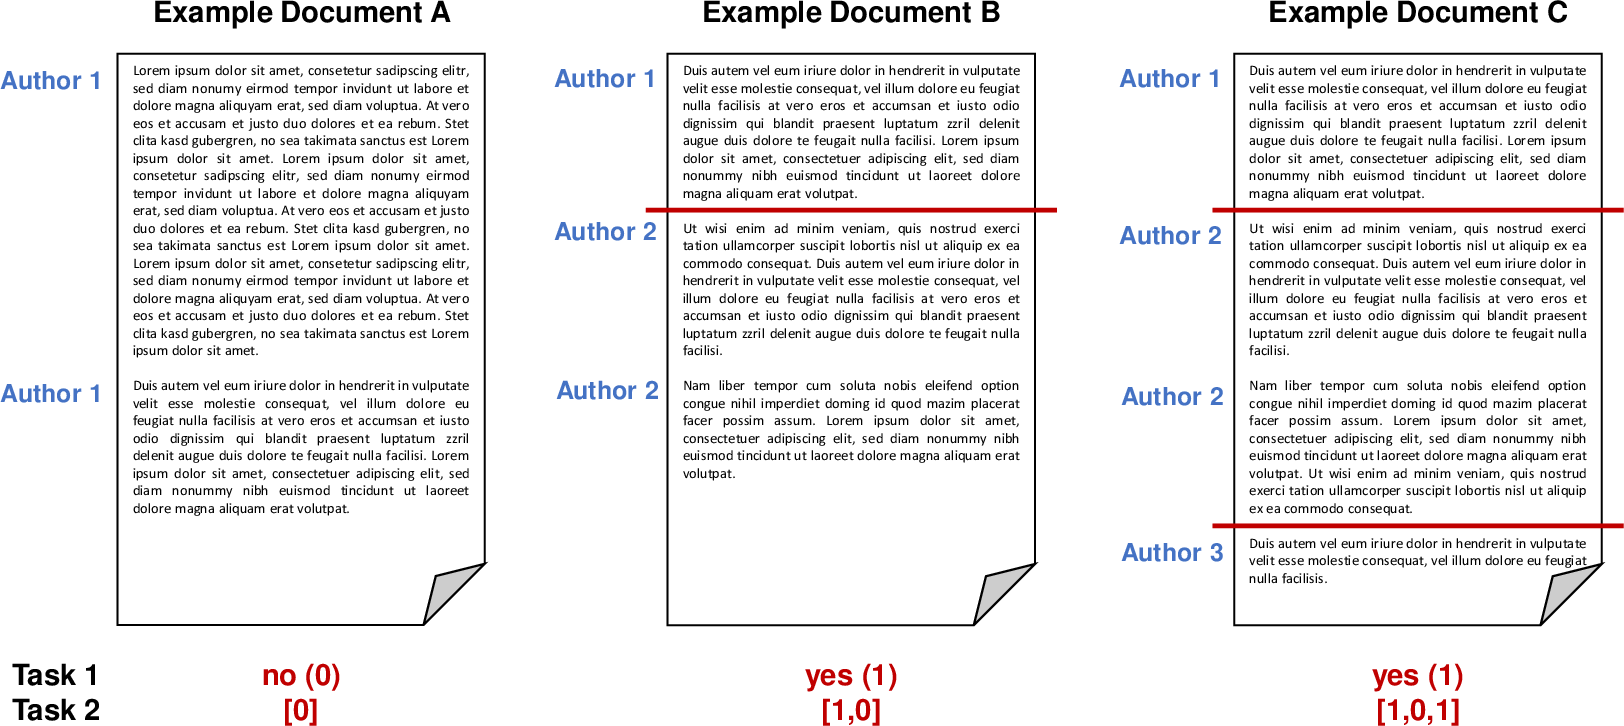
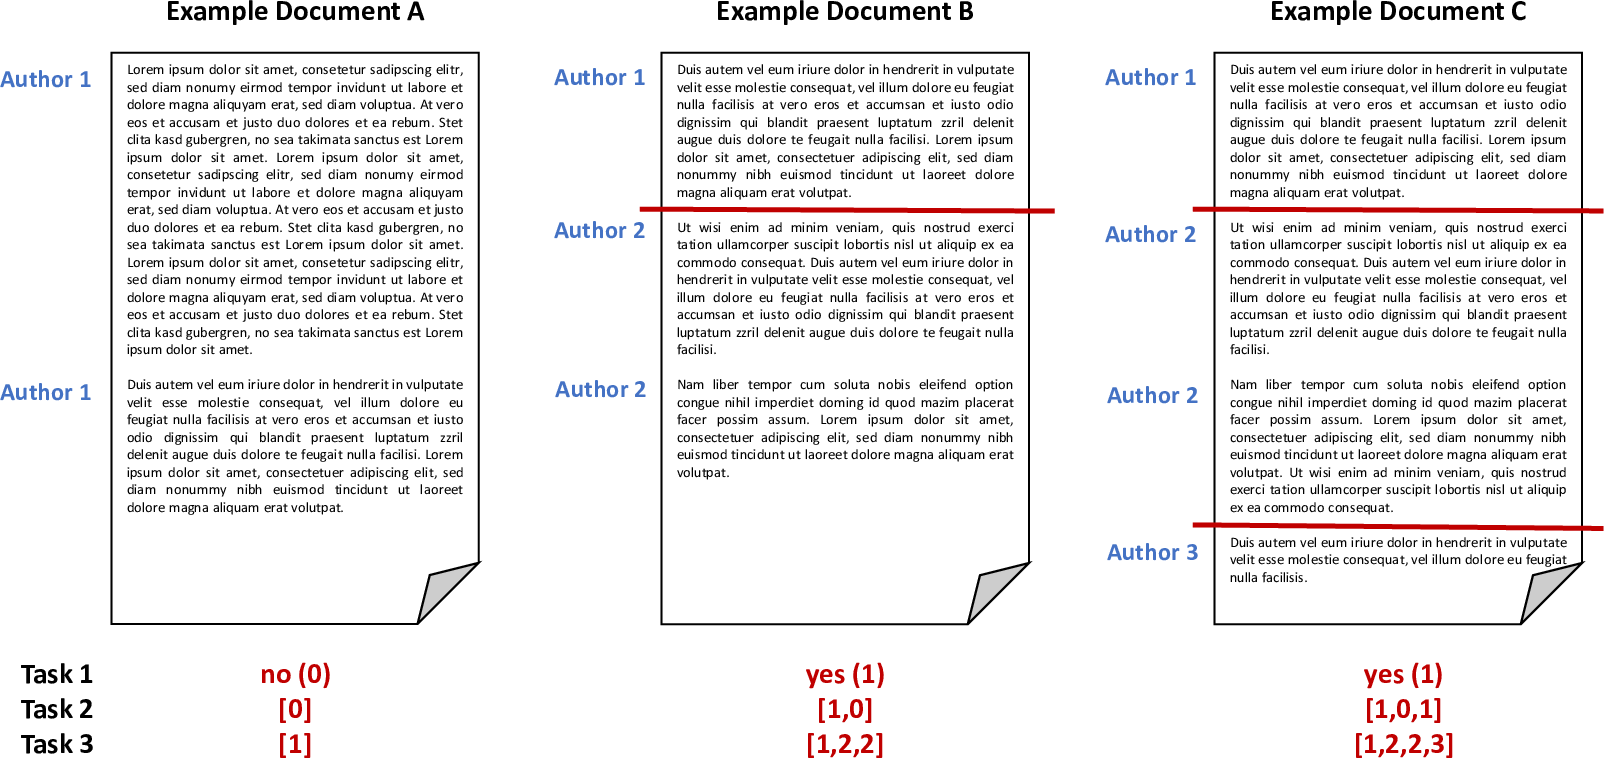
first version of style change task description

diff --git a/clef21/pan21-web/style-change-detection.html b/clef21/pan21-web/style-change-detection.html
@@ -25,8 +25,8 @@ description: PAN @ CLEF 2021 - Style Change Detection
 
             <h2 id="synopsis">Synopsis</h2>
             <ul>
-                <li>Task: Given two consecutive paragraphs, determine if there is a style change.</li>
-                <li>Input: TBD
+                <li>Task: Given a document, determine the number of authors and at which positions the author changes.</li>
+                <li>Input: StackExchange questions and answers, combined into documents </li>
 <!--                    StackExchange questions and answers, combined into documents; 22876 documents; narrow and wide topic relation [<a href="{{ '../../data.html#pan20-style-change-detection' | relative_url }}">data</a>]-->
                 </li>
                 <li>Output: TBD
@@ -42,31 +42,28 @@ description: PAN @ CLEF 2021 - Style Change Detection
             </ul>
 
             <h2 id="task">Task</h2>
-            Details about the task will be announced at a later date.
-<!--
-            <p>The goal of the style change detection task is to identify text positions within a given multi-author document at which the author switches. Detecting these positions is a crucial part of the authorship identification process, and for multi-author document analysis in general. Note that, for this task, we make the assumption that a change in writing style always signifies a change in author. </p>
+            <p> The goal of the style change detection task is to identify text positions within a given multi-author document at which the author switches. Hence, a fundamental question is the following: If multiple authors together have written a text, can we find evidence for this fact, e.g., do we have a means to detect variations in the writing
+            style? Answering this question belongs to the most difficult and most interesting challenges in author identification: Style change detection is the only means to detect plagiarism in a document if no comparison texts are given; likewise, style change detection can help to uncover gift authorships, to verify a claimed authorship, or to develop new technology for writing support.</p>
 
-            <p>Previous editions of the Style Change Detection task aim at e.g., detecting whether a document is single- or multi-authored 
-                (<a href="https://pan.webis.de/clef18/pan18-web/style-change-detection.html">2018</a>) or the actual number of authors within a document 
-                (<a href="https://pan.webis.de/clef19/pan19-web/style-change-detection.html">2019</a>). Considering the promising results achieved by the submitted approaches, we aim to steer the task back to its original goal: detecting the exact position of authorship changes. Therefore, the task for PAN'20 is to detect whether a document was authored by one or multiple authors and to find the positions of style changes at the paragraph-level. For each pair of consecutive paragraphs of a document, we ask participants to estimate whether there is indeed a style change between those two paragraphs. </p>
+            <p>Previous editions of the Style Change Detection task aim at e.g., detecting whether a document is single- or multi-authored (<a href="https://pan.webis.de/clef18/pan18-web/style-change-detection.html">2018</a>), the actual number of authors within a document (<a href="https://pan.webis.de/clef19/pan19-web/style-change-detection.html">2019</a>) or whether there was a style change between two consecutive paragraphs (<a href="https://pan.webis.de/clef20/pan20-web/style-change-detection.html">2020</a>). Considering the promising results achieved by the submitted approaches, we aim to steer the task back to its original goal: detecting the exact position of authorship changes. Therefore, the task for PAN'21 is to first detect whether a document was authored by one or multiple authors, for two-author documents, the task is to find the position of the authorship change and for multi-author documents, the task is to find all positions of authorship changes.</p>
             
-            <p>Given a document, we ask participants to answer the following two questions:</p>
+            <p>Given a document, we ask participants to answer the following three questions:</p>
             <ul>
-                <li>Was the given document written by multiple authors? (task 1)</li>
-                <li>For each pair of consecutive paragraphs in the given document: is there a style change between these paragraphs? (task 2)</li>
+                <li><b>Single vs. Multiple.</b> Given a text, find out whether the text is written by a single author or by multiple authors. (task 1) </li>
+                <li><b>Style Change Basic.</b> Given a text written by two authors and that contains a single style change only, find the position of this change, i.e., cut the text into the two authors' texts. Note that this task corresponds to authorship verification where the two authors are responsible for the beginning and the end of the text respectively. (task 2)</li>
+                <li><b>Style Change Real-World.</b> Given a text written by two or more authors, find all positions of writing style change, i.e., assign all paragraphs of the text uniquely to some author out of the number of authors you assume for the multi-author document. (task 3) </li>
             </ul>
 
-            <p>In other words, the goal is to determine whether the given document contains style changes and if it indeed does, we aim to find the position of the change in the document (between paragraphs).</p>
-            <p>All documents are provided in English and may contain zero up to ten style changes, resulting from at most three different authors. However, style changes may only occur between paragraphs (i.e., a single paragraph is always authored by a single author and does not contain any style changes).</p>
+
 
             <p>The following figure illustrates some possible scenarios and the expected output for the two tasks:</p>
             <br>
             <img src="../pan21-figures/style-change-task.png" alt="Style Change Detection Task Example">
 
             <h2 id="data">Data</h2>
-            <p>To develop and then test your algorithms, two data sets including ground truth information are provided. Those data sets differ in their topical breadth (i.e., the number of different topics that are covered in the documents contained). <i>dataset-narrow</i> contains texts from a relatively narrow set of subjects matters (all related to technology), whereas <i>dataset-wide</i> adds additional subject areas to that (travel, philosophy, economics, history, etc.).</p>
+            <p>To develop and then test your algorithms, a data set including ground truth information is provided, it contains texts from a relatively narrow set of subjects related to technology.</p>
 
-            <p>Both of those data sets are split into three parts:</p>
+            <p>The dataset is split into three parts:</p>
 
             <ol>
                 <li><i>training set:</i> Contains 50% of the whole data set and includes ground truth data. Use this set to develop and train your models.</li>
@@ -76,21 +73,16 @@ description: PAN @ CLEF 2021 - Style Change Detection
 
             <p>You are free to use additional external data for training your models. However, we ask you to make the additional data utilized freely available under a suitable license. </p>
 
-            <h3 id="input_format">Input Format</h3>
-            <p>Both dataset-narrow and dataset-wide are based on user posts from various sites of the StackExchange network, covering different topics. We refer to each input problem (i.e., the document for which to detect style changes) by an ID, which is subsequently also used to identify the submitted solution to this input problem.</p>
+            <!--<h3 id="input_format">Input Format</h3>
+            <p>The dataset is based on user posts from various sites of the StackExchange network, covering different topics. We refer to each input problem (i.e., the document for which to detect style changes) by an ID, which is subsequently also used to identify the submitted solution to this input problem.</p>
 
-            <p>The structure of the provided datasets is as follows:</p>
+            <p>The structure of the provided dataset is as follows:</p>
             <pre id="prettyprint linenums">
                     <code>
 train/
-    dataset-narrow/
-    dataset-wide/
 validation/
-    dataset-narrow/
-    dataset-wide/
 test/
-    dataset-narrow/
-    dataset-wide/
+
             </code></pre>
 
             <p>For each problem instance <code>X</code> (i.e., each input document), two files are provided:</p>
@@ -102,9 +94,12 @@ test/
                                 "structure": ORDER_OF_AUTHORS,
                                 "site": SOURCE_SITE,
                                 "multi-author": RESULT_TASK1,
-                                "changes": RESULT_ARRAY_TASK2
+                                "changes": RESULT_ARRAY_TASK2,
+                                "paragraph-authors": RESULT_ARRAY_TASK3
                             }</code></pre>
+
                     <p>The result for task 1 (key "multi-author") is a binary value (1 if the document is multi-authored, 0 if the document is single-authored). The result for task 2 (key "changes") is represented as an array, holding a binary for each pair of consecutive paragraphs within the document (0 if there was no style change, 1 if there was a style change). If the document is single-authored, the solution to task 2 is an array filled with 0s. Furthermore, we provide the order of authors contained in the document (e.g., <code>[A1, A2, A1]</code> for a two-author document), the total number of authors and the Stackoverflow site the texts were extracted from (i.e., topic).</p>
+
                     <p>An example of a multi-author document, where there was a style change between the third and fourth paragraph could look as follows (we only list the two relevant key/value pairs here):</p>
                     <pre class="prettyprint linenums uk-margin-remove-bottom"><code class="lang-json">{
                                "multi-author": 1, 
@@ -140,68 +135,31 @@ test/
                             }</code></pre>
 
             <p>We provide you with a script to check the validity of the solution files [<a href="https://github.com/pan-webis-de/pan-code/tree/master/clef20/style-change-detection" target="_blank">verifier and tests</a>].</p>
-
+            -->
             <h2 id="evaluation">Evaluation</h2>
-            <p>Submissions are evaluated by the F1-score measure for each document. The two tasks are evaluated independently based on the obtained accuracy measures. For task 1, we compute the average F1-score value across all documents and for task 2, we use the micro-averaged F1-score across all documents. The submissions for the two datasets will be evaluated independently and the resulting F1-scores for the two tasks will be averaged across the two datasets.</p>
+            <p>Submissions are evaluated by the F1-score measure for each document. The three tasks are evaluated independently based on the obtained accuracy measures. For task 1, we compute the average F1-score value across all documents and for task 2 and task 3, we use the macro-averaged F1-score across all documents. </p>
 
-            <p>We provide you with a script to compute those measures based on the produced output-files [<a href="https://github.com/pan-webis-de/pan-code/tree/master/clef20/style-change-detection">evaluator and tests</a>].</p>
+            <!--<p>We provide you with a script to compute those measures based on the produced output-files [<a href="https://github.com/pan-webis-de/pan-code/tree/master/clef20/style-change-detection">evaluator and tests</a>].</p> -->
 
             <h2 id="submission">Submission</h2>
-            <p>Once you finished tuning your approach on the validation set, your software will be tested on the test set. During the competition, the test set will not be released publicly. Instead, we ask you to submit your software for evaluation at our site as described below.</p>
+            <p>Once you finish tuning your approach on the validation set, your software will be tested on the test set. During the competition, the test set will not be released publicly. Instead, we ask you to submit your software for evaluation at our site as described below.</p>
 
             <p>We ask you to prepare your software so that it can be executed via command line calls. The command shall take as input (i) an absolute path to the directory of the test corpus and (ii) an absolute path to an empty output directory:</p>
 
             <pre class="prettyprint"><code>mySoftware -i INPUT-DIRECTORY -o OUTPUT-DIRECTORY</code></pre>
 
-            <p>Within <code>OUTPUT-DIRECTORY</code>, we require two subfolders: <code>dataset-narrow</code> and <code>dataset-wide</code>, holding the solutions for the two datasets, respectively. As the provided output directory is guaranteed to be empty, your software needs to create those subfolders.
-            </p>
-
-            <p>Within <code>INPUT-DIRECTORY</code>, you will find one folder for each dataset, holding a set of problem instances (i.e., <code>problem-[id].txt</code> files). For each problem instance you should produce the solution file <code>solution-problem-[id].json</code> in the
-                <code>OUTPUT-DIRECTORY</code>. For instance, you read <code>INPUT-DIRECTORY/dataset-narrow/problem-12.txt</code>, process it and write your results to <code>OUTPUT-DIRECTORY/dataset-narrow/solution-problem-12.json</code>.</p>
+            <p>Within <code>INPUT-DIRECTORY</code>, you will find the set of problem instances (i.e., <code>problem-[id].txt</code> files). For each problem instance you should produce the solution file <code>solution-problem-[id].json</code> in the <code>OUTPUT-DIRECTORY</code>. For instance, you read <code>INPUT-DIRECTORY/problem-12.txt</code>, process it and write your results to <code>OUTPUT-DIRECTORY/solution-problem-12.json</code>.</p>
 
             <p>In general, this task follows PAN's software submission strategy <a href="{{ 'organization.html#participation-guide' | relative_url }}">described here</a>.</p>
 
             <p>Note: By submitting your software you retain full copyrights. You agree to grant us usage rights only for the purpose of the PAN competition. We agree not to share your software with a third party or use it for other purposes than the PAN competition.</p>
 
-             <h2 id="results">Results</h2>
-
-              <table class="uk-table uk-table-divider uk-table-small uk-table-hover">
-                  <thead>
-                  <tr>
-                      <th>Team</th>
-                      <th colspan="3" align="center">F1</th>
-                  </tr>
-                  <tr>
-                      <th></th>
-                      <th>Task 1</th>
-                      <th>Task 2</th>
-                      <th>Average</th>
-                  </tr>
-                  </thead>
-                  <tbody>
-                  <tr>
-                      <td>Iyer and Vosoughi</td>
-                      <td>0.6401</td>
-                      <td>0.8567</td>
-                      <td>0.7484</td>
-                  </tr>
-                  <tr>
-                      <td>Castro-Castro et al.</td>
-                      <td>0.5399</td>
-                      <td>0.7579</td>
-                      <td>0.6489</td>
-                  </tr>
-                  <tr>
-                      <td>Nath</td>
-                      <td>0.5204</td>
-                      <td>0.7526</td>
-                      <td>0.6365</td>
-                  </tr>
-                  </tbody>
-              </table>
--->
+          
             <h2 id="related-work">Related Work</h2>
             <ul>
+              <li>
+                    <a href="{{ 'publications.html#?q=2020%20Zangerle' | relative_url }}">Style Change Detection, PAN@CLEF'20</a>
+                </li>
                 <li>
                     <a href="{{ 'publications.html#?q=2019%20Zangerle' | relative_url }}">Style Change Detection, PAN@CLEF'19</a>
                 </li>
@@ -238,7 +196,6 @@ test/
             <div data-uk-grid class="uk-grid uk-grid-match uk-grid-small thumbnail-card-grid">
                 {% include people-cards/zangerle.html %}
                 {% include people-cards/mayerl.html %}
-                {% include people-cards/specht.html %}
                 {% include people-cards/potthast.html %}
                 {% include people-cards/stein.html %}
             </div>
